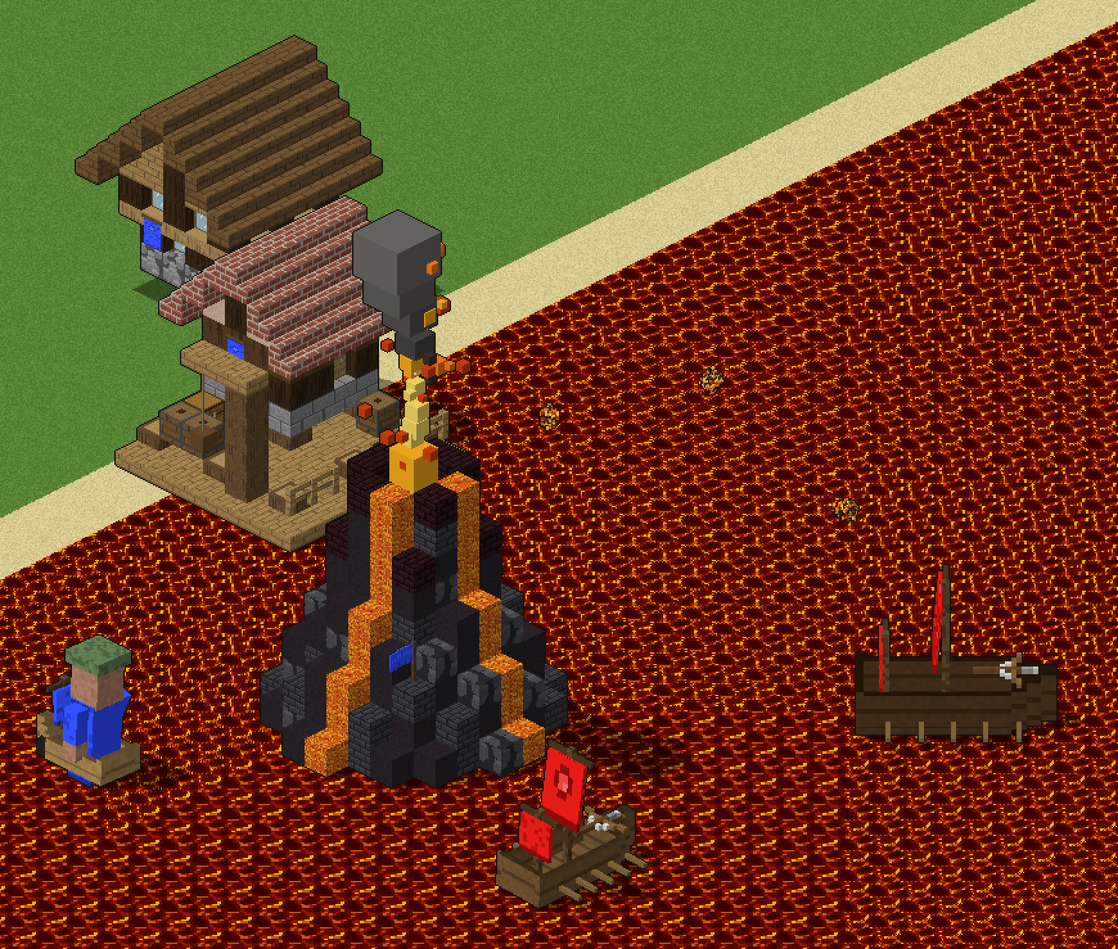
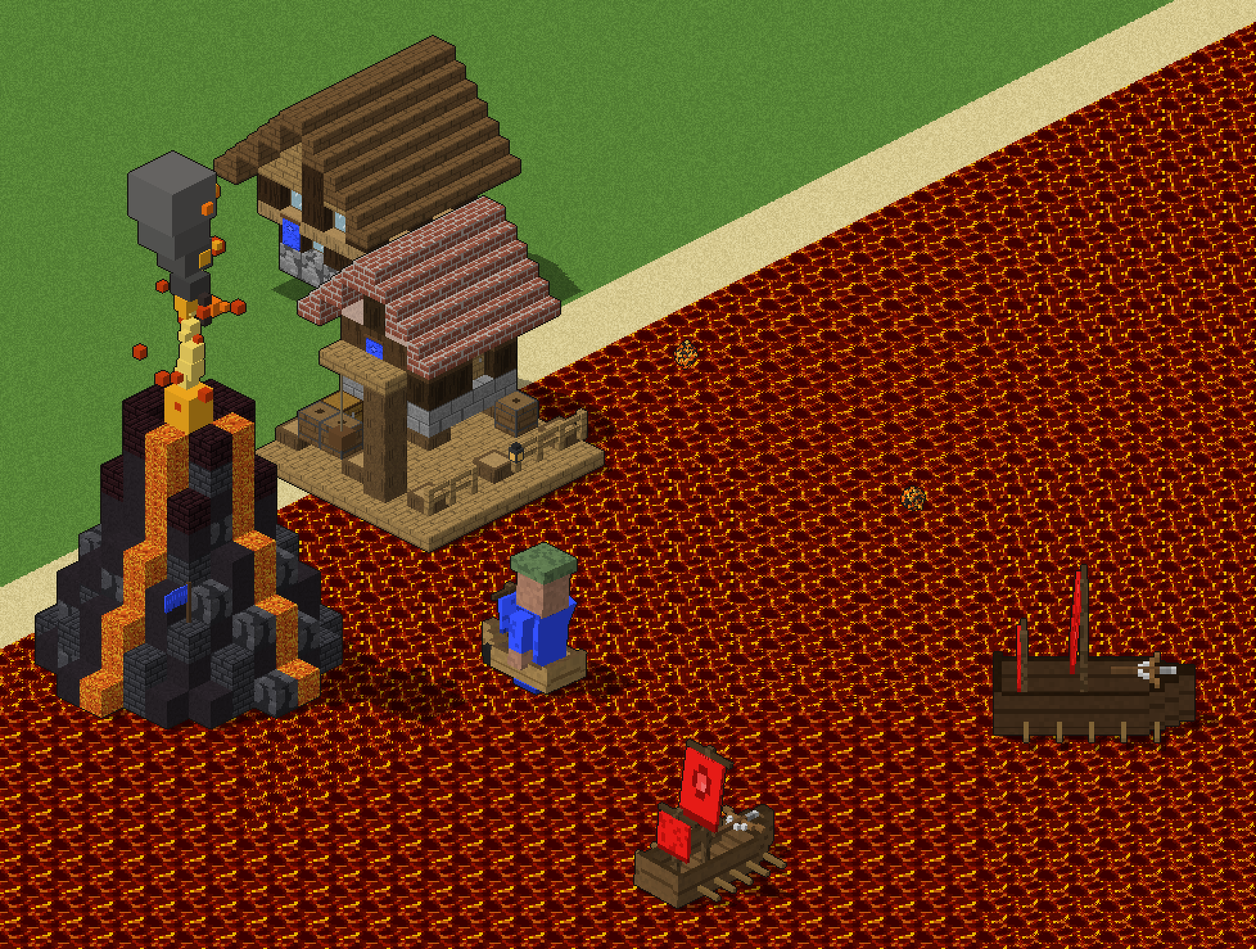
Let Villagers build the volcano by the beach, like a Dock
Fishing Ships could show the Build Volcano button but never place it. The
game only ever lets a Fishing Ship build a Fish Trap: its code checks for the
Fish Trap itself, and a test game with three more test buildings for Fishing
Ships (on the Dock's rules, the Fish Trap's and the volcano's own) placed
none of them.

Villagers now build the volcano (button 14 in their build menu) the way
they build a Dock: on the lava next to a beach, with lava under its middle.
It takes the Dock's own placement rules, which the game already accepts on
the lava, so it is still built on Team Lava Islands alone. The player chose
this over turning the Fish Trap into the volcano on every map.

diff --git a/tools/aom/volcano.py b/tools/aom/volcano.py
@@ -1,15 +1,16 @@
-"""Volcanoes on the lava: a Fishing Ship builds one out on the lava sea (terrain 15, lava.py), and it erupts at the
-enemies that come within its range, raining lava bombs on ships, units and buildings.
+"""Volcanoes on the lava: Villagers build one on the lava sea (terrain 15, lava.py) by their island's beach, and it
+erupts at the enemies that come within its range, raining lava bombs on ships, units and buildings.
 
 The game has a tower made for the sea that it never lets anyone build: the Sea Tower (unit 785). It is still a tower
 (unit class 52), so the tower upgrades reach it: Fletching, Bodkin Arrow and Bracer, Masonry and Architecture, and
 Heated Shot against ships. `patch` makes it the volcano, in place, for every civilisation:
 
-- Fishing Ships (unit 13) build it, the button next to their Fish Trap, from the start of the game, on the lava alone:
-  the tile under its middle must be lava (its placement terrain, the rule that keeps a Dock on water), and the rest
-  of it on lava or deep water (`water_row`: the terrain restriction row the fish swim in). A row of the volcano's
-  own, made from one no unit used, let the game draw it but never place it, though the row read lava as allowed
-  (a Dock, as big and as tall, places on the lava with the rows the game had).
+- Villagers build it (`BUTTON` in their build menu), from the start of the game, on the lava by a beach: it takes
+  the Dock's rules (the beach next to it, the ground it may cover, how level), with the tile under its middle on the
+  lava (its placement terrain, the rule that keeps a Dock on water). Fishing Ships cannot build it: the game lets a
+  Fishing Ship build the Fish Trap alone (it checks for the Fish Trap's unit, 004b9b8f among others), and a test
+  game with three more test volcanoes for Fishing Ships, on the Dock's rules, the Fish Trap's and its own, placed
+  none of them.
 - It is three tiles across, as big as a Barracks, built on the Barracks' building site, and it sinks like a Dock when
   destroyed.
 - It shoots its own shots (786, and 787: the game left both unused, the Sea Tower shot the towers' arrow), which
@@ -40,9 +41,9 @@ from .units import Unit
 SEA_TOWER = 785
 SHOTS = (786, 787)  # the Sea Tower's own shots, which nothing shoots (it shot the towers' arrow): both lava bombs
 LOOK = "STWR"  # the Sea Tower's graphics' names
-FISHING_SHIP = 13
-SHIP = 21  # the Fishing Ship's unit class
-BUTTON = 2  # in a Fishing Ship's build menu, next to the Fish Trap (1)
+VILLAGER = 118  # where buildings say Villagers build them
+DOCK = "DOCK"  # the Dock's unit name: the volcano takes its placement rules
+BUTTON = 14  # in a Villager's build menu: the buildings take 1-13 on both pages, 15 is the menu's way back
 LAVA = 15  # the terrain (lava.LAVA)
 COST = (2, 150, 1, 3, 100, 1, -1, 0, 0)  # 150 stone, 100 gold
 TIME = 60  # seconds to build
@@ -66,9 +67,9 @@ BOOM = "trebfire.wav"  # the Trebuchet's firing boom, on each eruption
 BUILDING_ICONS = (50705, 50706, 50707, 50708)  # in interfac.drs: one sheet per age
 HELP_STRINGS = 79000  # as gameplay.HELP_STRINGS
 TEXTS = {"name": "Volcano", "creation": "Build Volcano",
-         "help": "Build <b> Volcano<b> (<cost>) \nA volcano out on the lava. It erupts at enemies within range, "
-                 "raining lava bombs on ships, units and buildings. Only Fishing Ships build it, and only on lava. "
-                 "\n<hp> <attack> <armor> <piercearmor> <range>"}
+         "help": "Build <b> Volcano<b> (<cost>) \nA volcano on the lava, by your island's beach. It erupts at "
+                 "enemies within range, raining lava bombs on ships, units and buildings. Build it on lava next to "
+                 "a beach, like a Dock. \n<hp> <attack> <armor> <piercearmor> <range>"}
 SHORT_HELP = "Build <b> Volcano<b> (<cost>) \nErupts at enemies, raining lava bombs on them."
 
 # the volcano's model, in blocks: a cone of dark rock on an 8x8 footprint (three tiles), steeper towards its peak,
@@ -295,17 +296,10 @@ def icon_sheets(archives: list[tuple[str, object]]) -> list[tuple[str, object, i
 
 # --------------------------------------------------------------------------- the .dat
 
-WATER, BEACH, SHALLOWS = 1, 2, 4
-
-
-def water_row(data: bytes, civs) -> Optional[int]:
-    """The terrain restriction row for the volcano: one some unit uses (the fish) that lets it onto the water and
-    the lava (terrain 15) and nowhere on land, the beach or the shallows; the fewest terrains if there are several."""
-    rows = datfile.restrictions(data)
-    used = {u.values["terrain_restriction"] for units in civs.units for u in units if u is not None}
-    fits = [k for k, row in enumerate(rows) if k in used and len(row) > LAVA and row[LAVA] > 0 and row[WATER] > 0
-            and row[0] <= 0 and row[BEACH] <= 0 and row[SHALLOWS] <= 0]
-    return min(fits, key=lambda k: sum(1 for a in rows[k] if a > 0), default=None)
+def dock(civs):
+    """The Dock (as the game calls it: its unit name), whose placement rules the volcano takes."""
+    return next((u for units in civs.units for u in units if u is not None and u.type == 80 and u.name == DOCK
+                 and u.values["placement_side"][0] >= 0), None)
 
 
 def _own_graphic(graphics: dict, civs, gid: int, owners: set[int]) -> bool:
@@ -352,10 +346,10 @@ def patch(data: bytearray, civs, graphics: dict, slps: tuple[int, int, int],
     stand = graphics.get(first.values["standing"][0]) if first is not None else None
     if first is None or first.type != 80 or stand is None or not stand.name.upper().startswith(LOOK):
         return None, f"Volcano: not changed, unit {SEA_TOWER} is not the Sea Tower here", None
-    ship = next((units[FISHING_SHIP] for units in civs.units if len(units) > FISHING_SHIP
-                 and units[FISHING_SHIP] is not None), None)
-    if ship is None or ship.type != 70 or ship.values["class"] != SHIP:
-        return None, f"Volcano: not changed, unit {FISHING_SHIP} is not the Fishing Ship here", None
+    harbour = dock(civs)
+    if harbour is None:
+        return None, "Volcano: not changed, there is no Dock to take the placement rules of", None
+    row, side, hill = (harbour.values[k] for k in ("terrain_restriction", "placement_side", "hill_mode"))
     shots = [units[s] for units in civs.units if len(units) > max(SHOTS) for s in SHOTS if units[s] is not None]
     if not shots or any(s.type != 60 for s in shots):
         return None, f"Volcano: not changed, units {SHOTS[0]} and {SHOTS[1]} are not the Sea Tower's shots here", None
@@ -364,9 +358,6 @@ def patch(data: bytearray, civs, graphics: dict, slps: tuple[int, int, int],
     owners = {SEA_TOWER, *SHOTS}
     if len({rest, erupt, flight}) != 3 or not all(_own_graphic(graphics, civs, g, owners) for g in (rest, erupt, flight)):
         return None, "Volcano: not changed, the Sea Tower's pictures are not its own here", None
-    row = water_row(bytes(data), civs)
-    if row is None:
-        return None, "Volcano: not changed, no row of the terrain restriction table is the water and the lava", None
     try:
         sounds = datfile.sound_files(bytes(data))
     except (ValueError, struct.error):
@@ -381,8 +372,9 @@ def patch(data: bytearray, civs, graphics: dict, slps: tuple[int, int, int],
         u = units[SEA_TOWER]
         armours = [(c, ARMOUR.get(c, a)) for c, a in u.values["armours"]]
         attacks = ATTACK if len(u.values["attacks"]) == len(ATTACK) else None
-        DU.patch(data, u, enabled=1, train_location=FISHING_SHIP, button=BUTTON, cost=COST, train_time=TIME,
-                 hit_points=HP, terrain_restriction=row, projectile=SHOTS[0], placement_terrain=(LAVA, LAVA), armours=armours,
+        DU.patch(data, u, enabled=1, train_location=VILLAGER, button=BUTTON, cost=COST, train_time=TIME,
+                 hit_points=HP, terrain_restriction=row, placement_side=side, hill_mode=hill,
+                 projectile=SHOTS[0], placement_terrain=(LAVA, LAVA), armours=armours,
                  max_range=RANGE, line_of_sight=SIGHT, reload=RELOAD, attack_graphic=erupt, frame_delay=FRAME,
                  displacement=crater(), collision_size=(SIZE, SIZE, u.values["collision_size"][2]),
                  outline_size=(SIZE, SIZE, u.values["outline_size"][2]), clearance_size=(SIZE, SIZE),
@@ -406,12 +398,14 @@ def patch(data: bytearray, civs, graphics: dict, slps: tuple[int, int, int],
     if first.values["help_id"] > HELP_STRINGS:
         strings["help"] = first.values["help_id"] - HELP_STRINGS
     done = {"row": row, "rest": rest, "erupt": erupt, "flight": flight}
-    return done, (f"Volcano: the Sea Tower (unit {SEA_TOWER}) for {patched} civilisations, built by Fishing Ships "
-                  f"(unit {FISHING_SHIP}, button {BUTTON}) on lava alone (placement terrain {LAVA}, terrain "
-                  f"restriction {row}): "
+    return done, (f"Volcano: the Sea Tower (unit {SEA_TOWER}) for {patched} civilisations, built by Villagers "
+                  f"(button {BUTTON}) on the lava by a beach, on the Dock's rules (unit {harbour.id}: beside terrains "
+                  f"{side[0]}, {side[1]}, terrain restriction {row}, hill mode {hill}) with lava (terrain {LAVA}) "
+                  f"under its middle: "
                   f"{COST[1]} stone, {COST[4]} gold, {TIME} s, {HP} hit points, 3x3 tiles, lava bombs "
                   f"{'/'.join(str(a) for _, a in ATTACK)} (pierce/ships/buildings) at range {RANGE:g} every "
                   f"{RELOAD:g} s" + (f", icon {icon_index}" if icon_index is not None else "")
                   + f"; at rest SLP {slps[0]} (graphic {rest}), erupting SLP {slps[1]} (graphic {erupt}, "
                     f"{ERUPTION_FRAMES} pictures" + (f", sound {boom}" if boom >= 0 else "") + f"), its bombs "
                     f"(units {SHOTS[0]}, {SHOTS[1]}) SLP {slps[2]} (graphic {flight})"), strings
+

diff --git a/tools/tests/test_export.py b/tools/tests/test_export.py
@@ -93,8 +93,7 @@ def fake_civs(civs: int = 2, slots: int = 900, monkey_graphic: int = 0, boar_gra
     which may stand on Water or Shallows next to a beach, and the Trade Cart (128, and 204 loaded) and the Bombard
     Cannon (36), which go where the restriction table's third row lets them (the same ground as the eighth), the Sea
     Tower (785: graphics `sea_graphic` on, its shadow, picture, its two shots' and the arrows' shadow), which shoots
-    the towers' arrow and goes on the fourth row, its own unused shots (786, 787), the Fishing Ship (13), and fish
-    (69), which swim where the seventh row lets them.
+    the towers' arrow and goes on the fourth row, and its own unused shots (786, 787).
 
     Before them, the units' task lists: the Militia (74) can attack and board a Transport Ship, the Monkey Boy
     (860) can only attack."""
@@ -105,13 +104,13 @@ def fake_civs(civs: int = 2, slots: int = 900, monkey_graphic: int = 0, boar_gra
     for u in range(slots):
         tasks = [attack, board] if u in (74, 493) else [attack] if u == 860 else []
         out += struct.pack("<bH", 1, len(tasks)) + b"".join(TASK.pack(*t) for t in tasks) if u % 2 == 0 or u in (
-            276, 860, 823, 493, 13, 69, 785, 787) else b"\0"
+            276, 860, 823, 493, 785, 787) else b"\0"
     out += struct.pack("<H", civs)
     rng = np.random.default_rng(5)
     for c in range(civs):
         out += struct.pack("<b20sHhh", 1, [b"Gaia", b"British", b"French"][c % 3], 4, 1, 1)
         out += struct.pack("<4f", 1, 2, 3, 4) + struct.pack("<bH", 0, slots)
-        present = [u for u in range(slots) if u % 2 == 0 or u in (276, 860, 823, 493, 13, 69, 785, 787)]
+        present = [u for u in range(slots) if u % 2 == 0 or u in (276, 860, 823, 493, 785, 787)]
         # like the original game's file, a pointer is a memory address (0 = no unit)
         out += struct.pack(f"<{slots}i", *[int(rng.integers(0x400000, 0x7fffffff)) if u in present else 0
                                            for u in range(slots)])
@@ -137,10 +136,6 @@ def fake_civs(civs: int = 2, slots: int = 900, monkey_graphic: int = 0, boar_gra
                 out += _unit_bytes(u, 70, "TCART" if u == 128 else "TCARTF", cls=19, restriction=2)
             elif u == 36:  # a Bombard Cannon, which goes where the Trade Cart goes
                 out += _unit_bytes(u, 70, "BCANN", cls=13, restriction=2)
-            elif u == 13:
-                out += _unit_bytes(u, 70, "FSHSP", cls=21)
-            elif u == 69:
-                out += _unit_bytes(u, 30, "FISHS", restriction=6)
             elif u == 785:
                 out += _unit_bytes(u, 80, "STWR", sea_graphic + 1, attacks=[(11, 0), (16, 9), (3, 7)],
                                    armours=[(21, 0), (11, 0), (4, 0), (3, 6), (13, 0)], reload=2.0, projectile=504,
@@ -178,12 +173,11 @@ def fake_terrains(terrains: dict[int, tuple[str, int]]) -> bytes:
 def fake_dat(graphics: list[dict], civs: bytes = b"", ground: dict = None) -> bytes:
     """A minimal empires2_x1_p1.dat: header sections plus the given graphics (and terrains and unit tables)."""
     b = bytearray(b"VER 5.7\0")
-    restrictions, terrains = 8, 41  # rows 0 and 1 let units everywhere, 2 and 7 on land (the first 30 terrains), 6 in
-    b += struct.pack("<HH", restrictions, terrains)  # deep water and the old water (the fish's), the rest nowhere
+    restrictions, terrains = 8, 41  # rows 0 and 1 let units everywhere, 2 and 7 on land (the first 30 terrains), the
+    b += struct.pack("<HH", restrictions, terrains)  # rest nowhere
     b += struct.pack(f"<{2 * restrictions}i", *([1] * 2 * restrictions))
     for k in range(restrictions):
-        b += struct.pack(f"<{terrains}f", *[(1.0 if k < 2 or k in (2, 7) and t < 30 or k == 6 and t in (1, 15, 22, 23)
-                                             else 0.0) for t in range(terrains)])
+        b += struct.pack(f"<{terrains}f", *[(1.0 if k < 2 or k in (2, 7) and t < 30 else 0.0) for t in range(terrains)])
         b += bytes(16 * terrains)
     b += struct.pack("<H", 2) + bytes(36 * 2)
     b += struct.pack("<H", 1) + struct.pack("<hhHi", 0, 0, 2, 300000)  # one sound, with two files
@@ -666,18 +660,20 @@ def test_full_build(tmp: Path):
     assert {p for _, p in slp.frame_props(out.get(15602))} == {16}  # marked as the cart tracks' own frames are
     assert "Trains: the Trade Carts (units 128, 204, 4 in all) keep their terrain restriction 2, which now" in report
     assert "CARTSTPS) draw SLP 15602, 5 pictures" in report and "(BCANN) use 7, exactly like it" in report
-    # the volcano: the Sea Tower (785), built by Fishing Ships (13) on the lava alone (its middle on the lava, the
-    # rest where the fish swim), three tiles across, shooting its own shots (786, 787) as lobbed lava bombs
+    # the volcano: the Sea Tower (785), built by Villagers on the Dock's rules (46 here: a beach beside it, its
+    # ground, its level) with the lava under its middle, three tiles across, shooting its own shots (786, 787) as
+    # lobbed lava bombs
     for civ in units.units:
         v = civ[785].values
-        assert (v["enabled"], v["train_location"], v["button"], v["projectile"], v["icon"]) == (1, 13, 2, 786, 52)
-        assert v["terrain_restriction"] == 6 and v["placement_terrain"] == (15, 15)
+        assert (v["enabled"], v["train_location"], v["button"], v["projectile"], v["icon"]) == (1, 118, 14, 786, 52)
+        assert v["placement_terrain"] == (15, 15) and v["placement_side"] == civ[46].values["placement_side"]
+        assert (v["terrain_restriction"], v["hill_mode"]) == (civ[46].values["terrain_restriction"],
+                                                              civ[46].values["hill_mode"])
         assert v["collision_size"][:2] == v["clearance_size"] == (1.5, 1.5)
         assert v["attacks"] == [(3, 12), (16, 18), (11, 15)] and v["cost"] == (2, 150, 1, 3, 100, 1, -1, 0, 0)
         assert graphics_after[v["construction_graphic"]].name == "CNST3_NN"
         assert graphics_after[v["dying"][0]].name == "DEXP3_NN"
         assert civ[786].values["projectile_arc"] == civ[787].values["projectile_arc"] > 0.5  # lobbed high
-    assert [k for k, a in enumerate(rows[6]) if a > 0] == [1, 15, 22, 23]  # the fish's row, as it was
     looks = {g.name: g for g in graphics_after.values() if g.name in ("STWR1NN", "MFSTW", "MRSTW")}
     assert [(looks[n].slp, looks[n].frame_count, looks[n].angle_count, looks[n].mirroring) for n in
             ("STWR1NN", "MFSTW", "MRSTW")] == [(15603, 1, 1, 0), (15604, 12, 1, 0), (15605, 8, 1, 0)]
@@ -685,7 +681,7 @@ def test_full_build(tmp: Path):
     assert units.units[1][785].values["attack_graphic"] == looks["MFSTW"].id  # it erupts as it fires
     assert [len(slp.decode(out.get(s))) for s in (15603, 15604, 15605)] == [1, 12, 8]
     assert all(slp.info(out.get(s)).num_frames == 53 for s in (50705, 50706, 50707, 50708))  # its icon (52)
-    assert "Volcano: the Sea Tower (unit 785) for 2 civilisations, built by Fishing Ships" in report
+    assert "Volcano: the Sea Tower (unit 785) for 2 civilisations, built by Villagers (button 14)" in report
     # his name and the game's: the mod's own language_x1_p1.dll has them; the game's files are untouched
     p1_before = (game / "language_x1_p1.dll").read_bytes()
     p1 = (mod / "Data" / "language_x1_p1.dll").read_bytes()
@@ -699,7 +695,7 @@ def test_full_build(tmp: Path):
     assert [langdll.read_string(p1, i) for i in (5128, 6128)] == ["Train", "Build Train"]
     assert langdll.read_string(p1, 26128).startswith("Build <b> Train<b> (<cost>) \nTrades by land, laying its own")
     assert [langdll.read_string(p1, i) for i in (5785, 6785)] == ["Volcano", "Build Volcano"]
-    assert langdll.read_string(p1, 26785).startswith("Build <b> Volcano<b> (<cost>) \nA volcano out on the lava")
+    assert langdll.read_string(p1, 26785).startswith("Build <b> Volcano<b> (<cost>) \nA volcano on the lava")
     assert langdll.read_string(p1_before, 5860) == "Furious the Monkey Boy"
     assert langdll.read_string((game / "language_x1.dll").read_bytes(), 5860) == "Furious the Monkey Boy"
     assert not (mod / "Data" / "language_x1.dll").exists()

diff --git a/tools/concept_sheet.py b/tools/concept_sheet.py
@@ -492,19 +492,19 @@ def lava_scene(out: Path, units: dict[str, Unit]) -> None:
 
 
 def volcano_scene(out: Path, units: dict[str, Unit]) -> None:
-    """A volcano out on the lava, built by the Fishing Ship beside it, erupting at enemy ships: its lava bombs in the
-    air on their way to the Galleon, the island's Dock behind it."""
+    """A volcano on the lava by the island's beach, erupting at enemy ships: its lava bombs in the air on their way
+    to the Galleon, the island's Dock behind it, a Fishing Ship out on the lava."""
     from aom import volcano as volcanoes
     from aom.voxel import all_blocks
     placed = place_buildings([(B("DOCK", "W", 3), 3.5, 4.5), (B("HOUS", "W", 2), 0.0, 2.0)])
     root = volcanoes.volcano((volcanoes.FRAME + 0.5) / volcanoes.ERUPTION_FRAMES).part(all_blocks())
-    placed.append((render(root, BUILDING_HEADING, camera=fit_camera(root, BUILDING_HEADING)), 1, *tile_xy(8.5, 7.5)))
-    fleet = [("fishing_ship", 1, 6.6, 11.0, 3, "walk", 0.2), ("galleon", 2, 13.0, 3.2, 6, "walk", 0.4),
+    placed.append((render(root, BUILDING_HEADING, camera=fit_camera(root, BUILDING_HEADING)), 1, *tile_xy(4.6, 9.5)))
+    fleet = [("fishing_ship", 1, 7.6, 7.0, 3, "walk", 0.2), ("galleon", 2, 13.0, 3.2, 6, "walk", 0.4),
              ("war_galley", 2, 12.4, 8.8, 5, "walk", 0.3)]
     placed += place_units(fleet, units)
     bomb = {"lava_bomb": volcanoes.bomb()}
     for k, (f, height) in enumerate(((0.25, 230), (0.55, 260), (0.8, 160))):  # on their way to the Galleon
-        i, j = 8.5 + (13.0 - 8.5) * f, 7.5 + (3.2 - 7.5) * f
+        i, j = 4.6 + (13.0 - 4.6) * f, 9.5 + (3.2 - 9.5) * f
         frame, player, x, y = place_units([("lava_bomb", 1, i, j, 0, "idle", k / 3)], bomb)[0]
         placed.append((frame, player, x, y - height))
     compose(placed, out, shore=3.0, lava=True)

diff --git a/tools/aom/datunits.py b/tools/aom/datunits.py
@@ -65,7 +65,8 @@ FORMATS = {"enabled": "b", "icon": "h", "hide_in_editor": "b", "train_time": "h"
            "projectile": "h", "displacement": "fff", "displayed": "hhff", "displayed_pierce": "h",
            "train_sound": "h", "selection_sound": "h", "dying_sound": "h", "attack_sound": "h", "move_sound": "h",
            "resource_capacity": "h", "hero_status": "b", "placement_terrain": "hh", "clearance_size": "ff",
-           "projectile_arc": "f", "construction_graphic": "h", "frame_delay": "h"}
+           "projectile_arc": "f", "construction_graphic": "h", "frame_delay": "h",
+           "placement_side": "hh", "hill_mode": "b"}
 
 
 def _unit(r: _R, civ: int) -> UnitRecord:
@@ -107,12 +108,15 @@ def _unit(r: _R, civ: int) -> UnitRecord:
     f["enabled"] = r.p
     v["enabled"] = r.one("b")
     r.one("b")  # disabled
-    r.take("hh")  # placement side terrains: one of them must be next to it (a Dock's: the beach)
+    f["placement_side"] = r.p
+    v["placement_side"] = r.take("hh")  # placement side terrains: one of them must be next to it (a Dock's: the beach)
     f["placement_terrain"] = r.p
     v["placement_terrain"] = r.take("hh")  # it may only be placed on these (a Dock's: Water and Shallows)
     f["clearance_size"] = r.p
     v["clearance_size"] = r.take("ff")  # room kept free round a building when placing it (tiles)
-    r.take("bb")  # hill mode, fog visibility
+    f["hill_mode"] = r.p
+    v["hill_mode"] = r.one("b")  # how level its ground must be (0 any, 3 like a Dock)
+    r.one("b")  # fog visibility
     f["terrain_restriction"] = r.p
     v["terrain_restriction"] = r.one("h")  # which terrains the unit may stand on (a row of the restriction table)
     r.one("b")  # fly mode

diff --git a/tools/aom/gameplay.py b/tools/aom/gameplay.py
@@ -116,7 +116,7 @@ def patch_dat(raw: bytes, graphics: dict, pacman: bool = True, javelina: bool = 
               dragon_sounds: Optional[dict[str, list[int]]] = None,
               lava: Optional[tuple[int, int]] = None,
               rails: Optional[int] = None,
-              volcano: Optional[tuple[tuple[int, int, int], Optional[int]]] = None) -> tuple[Optional[DatPatch], list[str]]:
+              volcano: Optional[tuple] = None) -> tuple[Optional[DatPatch], list[str]]:
     """All .dat changes: Pac-Man at the Wonder (with icon `icon` and `sounds`, if given), the giant red Pac-Man
     drawn from SLP `giant` (if given; with Pac-Man only), the dragon at the Wonder with its fireballs drawn from SLP
     `fire` (if given, with `dragon_sounds`), the lava (if given: its texture's SLP and minimap colour; lava.py), the
@@ -219,7 +219,7 @@ def patch_dat(raw: bytes, graphics: dict, pacman: bool = True, javelina: bool = 
             return None, notes + ["not changed: the trains did not read back as expected"]
         mount = units[volcanoes.SEA_TOWER] if erupts is not None and len(units) > volcanoes.SEA_TOWER else None
         if mount is not None and mount.type == 80 and (
-                mount.values["train_location"] != volcanoes.FISHING_SHIP
+                mount.values["train_location"] != volcanoes.VILLAGER
                 or mount.values["terrain_restriction"] != erupts["row"]
                 or mount.values["placement_terrain"] != (volcanoes.LAVA, volcanoes.LAVA)
                 or mount.values["attack_graphic"] != erupts["erupt"]):

diff --git a/tools/build_mod.py b/tools/build_mod.py
@@ -47,7 +47,7 @@ from aom import spritemap  # noqa: E402
 STATIC_GROUPS = {"buildings", "farms", "walls", "wonders", "nature", "decorations", "projectiles", "interface"}
 LAVA = "lava"  # and this: the lava, its Dock rule and the Team Lava Islands map
 RAILS = "rails"  # and this: the trains laying rails behind them
-VOLCANO = "volcano"  # and this: the volcano Fishing Ships build on the lava
+VOLCANO = "volcano"  # and this: the volcano Villagers build on the lava
 
 
 def static_group(spec: dict) -> str:

diff --git a/docs/DESIGN.md b/docs/DESIGN.md
@@ -180,19 +180,18 @@ deer and boar, and sheep. The build writes the map into the mod's
 
 ![volcano](../previews/volcano.png)
 
-A Fishing Ship can build a **volcano** out on the lava, and it erupts at
-enemies that come within range, raining lava bombs on them. The game has a
+Villagers can build a **volcano** on the lava by their island's beach, and
+it erupts at enemies that come within range, raining lava bombs on them. The game has a
 tower made for the sea that it never lets anyone build, the Sea Tower;
 `volcano.py` makes it the volcano, in place in the `.dat`, for every
 civilisation:
 
-- **Where.** Fishing Ships build it (the button next to the Fish Trap), from
-  the start of the game, anywhere on the lava and nowhere else: the tile
-  under its middle must be lava (the rule that keeps a Dock on water), and
-  the rest of it where the fish swim (deep water or lava, no beach). No
+- **Where.** Villagers build it, from the start of the game, the way they
+  build a Dock: on the lava next to a beach, with lava under its middle. No
   ordinary map has lava, so it is only built on Team Lava Islands. It is
   three tiles across, as big as a Barracks: 150 stone and 100 gold, 1 minute
-  to build, 1500 hit points.
+  to build, 1500 hit points. (Fishing Ships were the first idea, out on the
+  open lava, but the game only ever lets a Fishing Ship build a Fish Trap.)
 - **How it fights.** Every 3 seconds, at a tower's range (8 tiles), it
   erupts: a fountain of lava out of its crater, and a lava bomb lobbed high
   at the enemy, ship, unit or building. A bomb does 12 piercing damage, 18

diff --git a/CLAUDE.md b/CLAUDE.md
@@ -138,9 +138,11 @@ putting `tools/` on `sys.path`.
      memory; the four builds whose pieces lasted a day, then 5 minutes, crashed so. The train is drawn
      `TRAIN_SCALE` big, the track as wide (`GAUGE`); its texts by `name_train`. `--only rails` builds just this.
    - `volcano.py` makes the never-built Sea Tower (785, still a tower: class 52, so tower upgrades reach it) the
-     volcano, in place: built by Fishing Ships (13, button 2), on lava alone (placement terrain 15: the tile under its
-     middle; the rest by `water_row`, the fish's row of deep water and lava; a row made lava-only from an unused one
-     never let it be placed in game, though a Dock as big places on lava), 3x3, shooting its own unused shots (786, 787)
+     volcano, in place: built by Villagers (118, button 14) on the Dock's placement rules (side terrains, row, hill
+     mode, copied from the unit named DOCK) with placement terrain 15, lava under its middle, 3x3. Fishing Ships cannot
+     build it: the game hard-codes the Fishing Ship (13) to the Fish Trap (199) (004b9b8f and others); a test game of
+     three Dock copies for Fishing Ships, on the Dock's, the Fish Trap's and the volcano's rules, placed none. It shoots
+     its own unused shots (786, 787)
      as lobbed lava bombs. Its three graphics (STWR1NN at rest; 787's MFSTW, made one direction of 12 frames, its
      attack graphic: buildings play attack graphics, as the unpacked Trebuchet does; 786's MRSTW the bomb) draw new
      SLPs (`volcano_slp`, `eruption_slp`, `bomb_slp`, written after the rails'), their old shadow deltas set to -1.

diff --git a/HANDOFF.md b/HANDOFF.md
@@ -37,10 +37,12 @@ too large to export (246 MB).
   alike across civilisations and chose "five sets with their own shapes, Dark Age kept shared" over giving each
   of the 18 civilisations its own look (that needs new graphics in the .dat). Previewed, untested in game.
 - **Volcanoes** (2026-10-10, `tools/aom/volcano.py`): the player asked for volcanoes built on the lava that erupt
-  at enemy ships. They chose: Fishing Ships build them anywhere on lava, the bombs hit everything in range (not
-  only ships), available from the start, 3x3 tiles. The unused Sea Tower (785) became the volcano. Untested in
-  game: check that the Fishing Ship shows the second build button, that the eruption plays when it fires, and
-  that its icon shows in every age.
+  at enemy ships. They chose Fishing Ships building them anywhere on lava, but the game only lets a Fishing Ship
+  build the Fish Trap (hard-coded; a test game of three variants placed none), so Villagers build them like a Dock,
+  by the beach (the player chose this over turning the Fish Trap into the volcano on every map). The bombs hit
+  everything in range, available from the start, 3x3 tiles. The unused Sea Tower (785) became the volcano. Not yet
+  placed in game: check the Villager's build menu has it (button 14), that it places by the beach, that the
+  eruption plays when it fires, and that its icon shows in every age.
 
 ## The train crash: cause found (2026-10-10, on the Windows laptop)
 

diff --git a/docs/INSTALL.md b/docs/INSTALL.md
@@ -197,10 +197,10 @@ can no longer be built in shallow fords (they can on lava instead). With
 `build_mod_direct.bat` the map goes into your game's `Random` folder, and
 `restore_original.bat` removes it again.
 
-**Volcanoes on the lava.** Select a Fishing Ship out on the lava: next to
-Build Fish Trap there is **Build Volcano** (150 stone, 100 gold). Place it
-anywhere on the lava (it can't stand on water or land); it is three tiles
-across. When enemies come within 8 tiles it erupts every 3 seconds and lobs a
+**Volcanoes on the lava.** Select a Villager and open the build menu:
+**Build Volcano** is there (150 stone, 100 gold). Place it like a Dock: on the
+lava, touching your island's beach (it can't stand on land or water); it is
+three tiles across. When enemies come within 8 tiles it erupts every 3 seconds and lobs a
 lava bomb at them: it hurts ships most, but also soldiers and villagers on the
 shore and buildings in range. The tower upgrades (Fletching, Bodkin Arrow,
 Bracer, Masonry, Architecture, Heated Shot) make it stronger too. The

diff --git a/README.md b/README.md
@@ -90,7 +90,7 @@ tools/aom/gaia.py        map decorations: yurts, ruins, graves, flags, torches, 
 tools/aom/farmland.py    farms, which are terrain: Minecraft farmland and wheat in terrain.drs
 tools/aom/lava.py        the lava (the unused terrain 15), Docks on it, and the Team Lava Islands map
 tools/aom/rails.py       trains laying their own rails: a track left behind them on the ground (an unused graphic)
-tools/aom/volcano.py     volcanoes Fishing Ships build on the lava, erupting at enemies (the unused Sea Tower)
+tools/aom/volcano.py     volcanoes Villagers build on the lava by the beach, erupting at enemies (the unused Sea Tower)
 tools/aom/interface.py   the screen panels repainted: planks, inventory grey, slots and item icons
 tools/aom/menu.py        the main menu: a block village by day, every button a Minecraft thing, names on Minecraft buttons
 tools/aom/screens.py     the other screens: found by their screen files, redrawn as the deepslate hall
